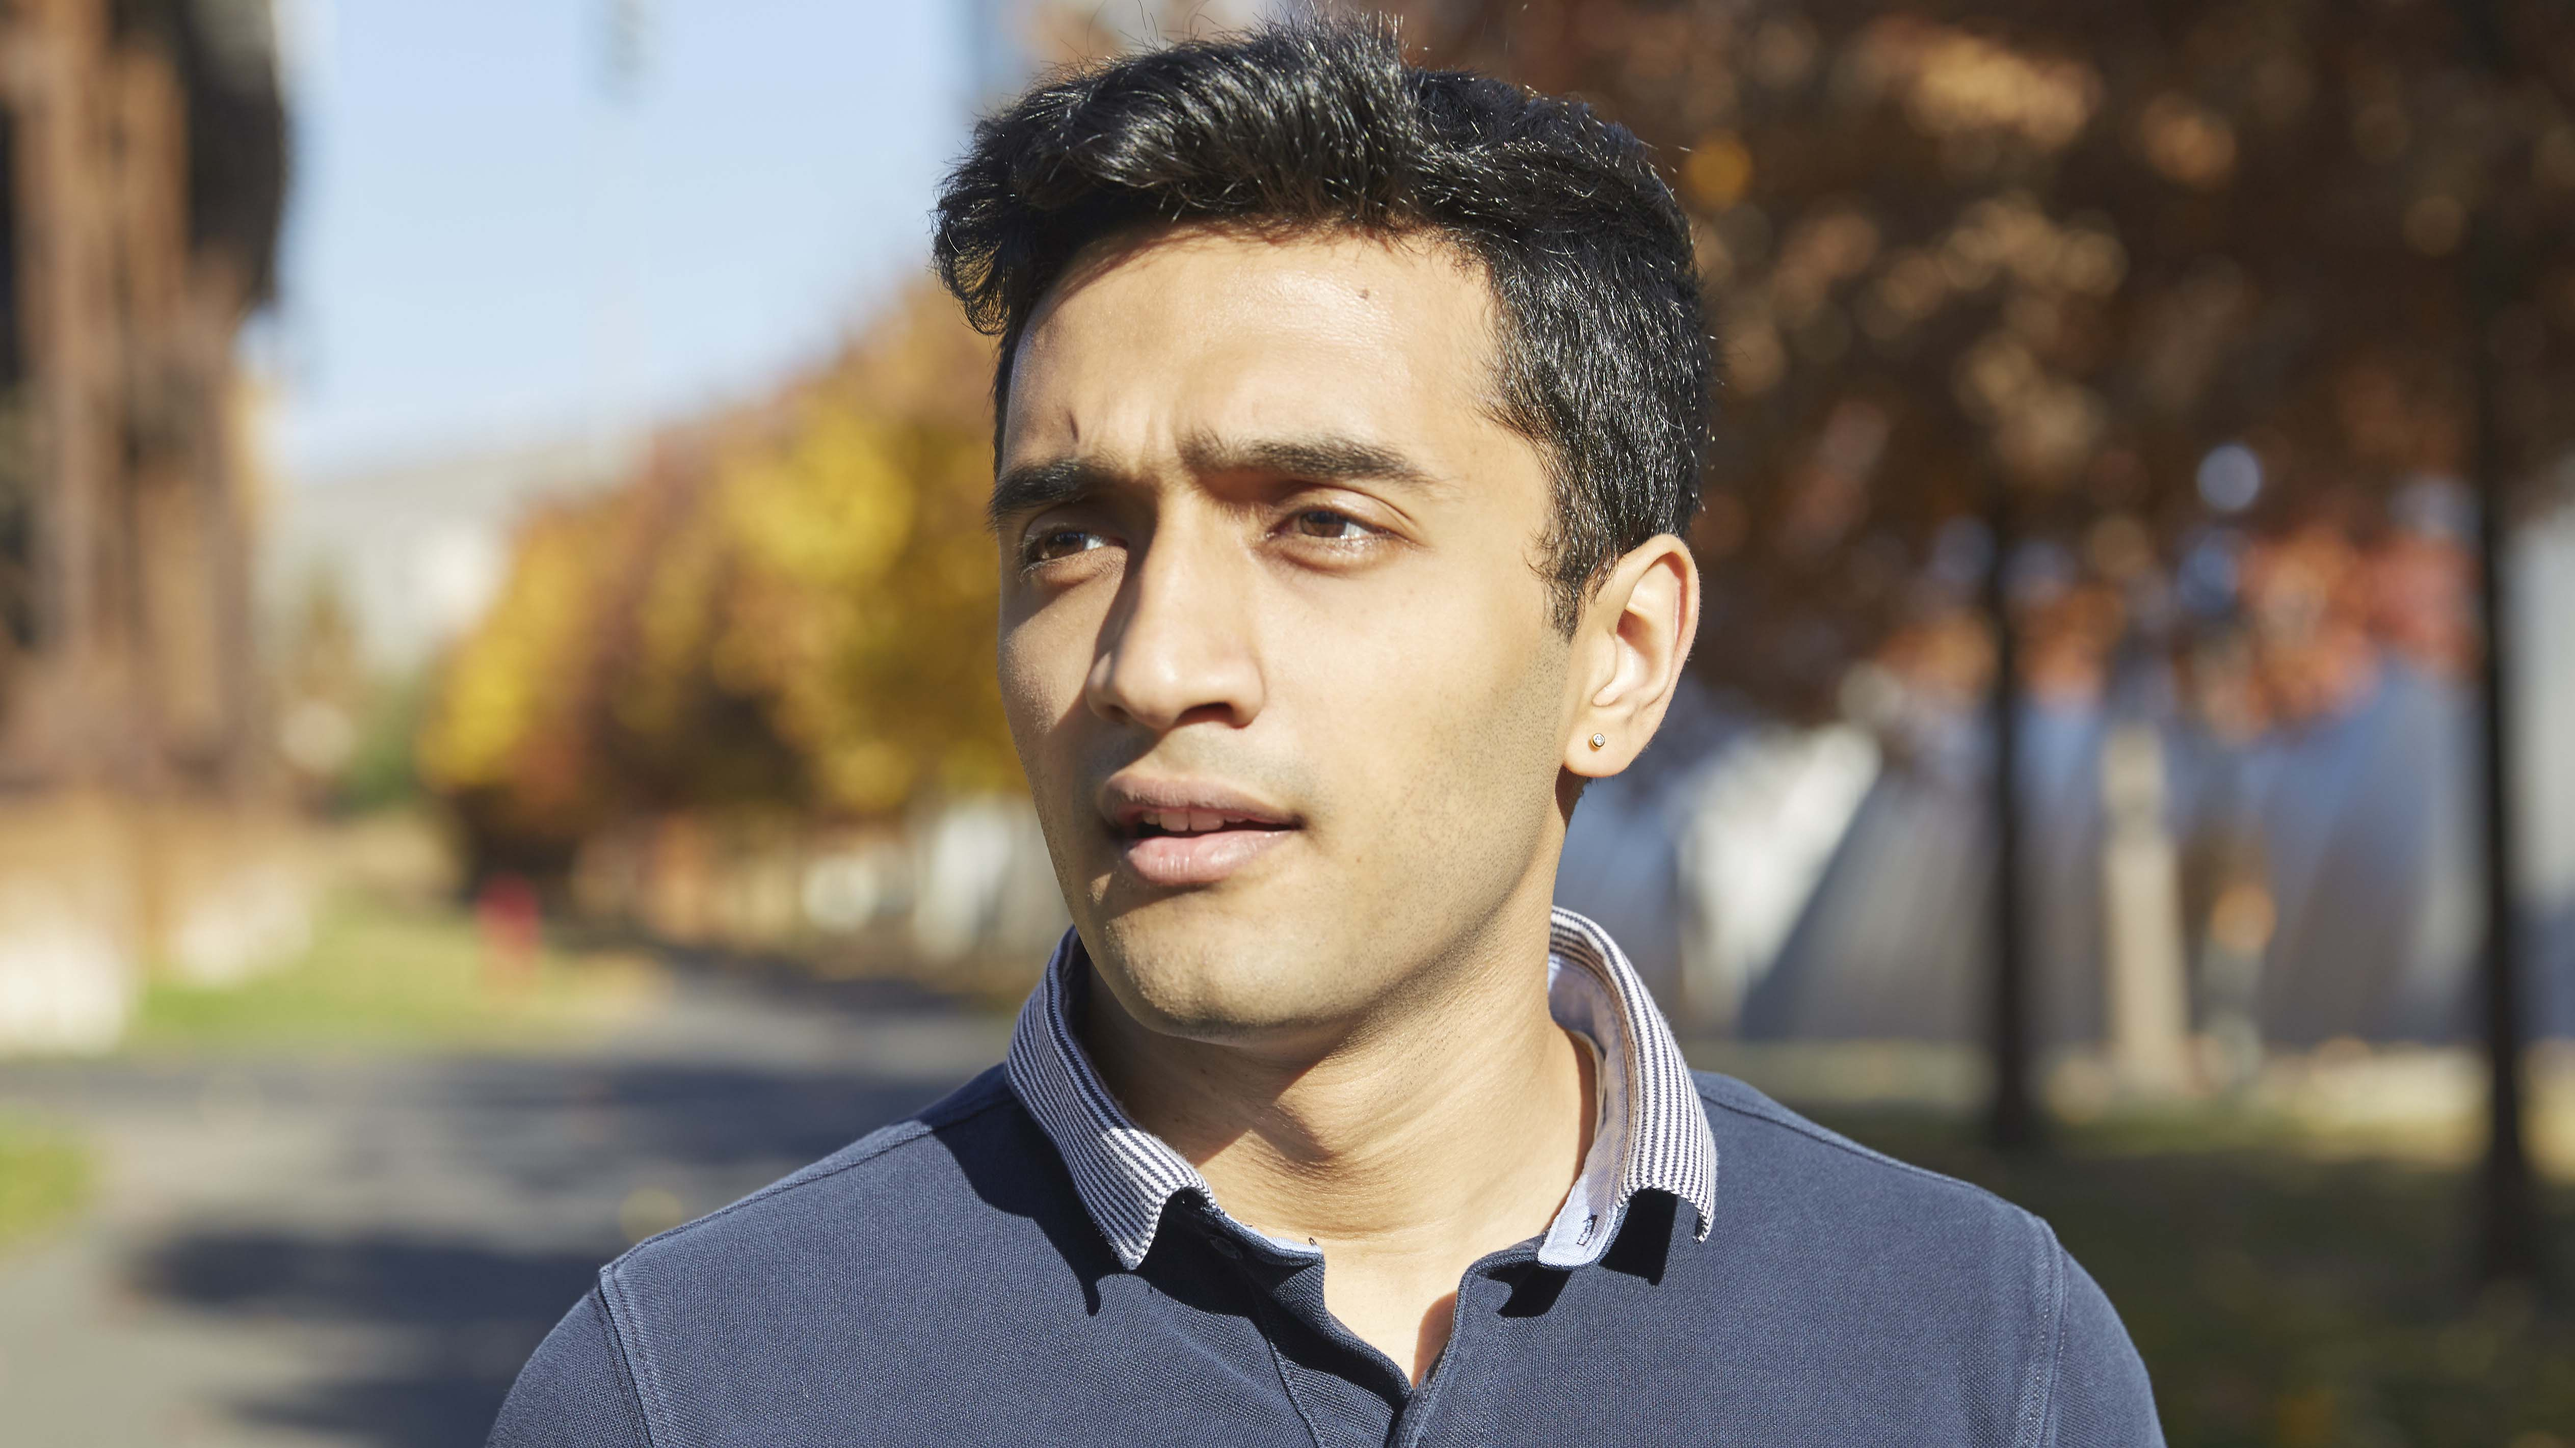
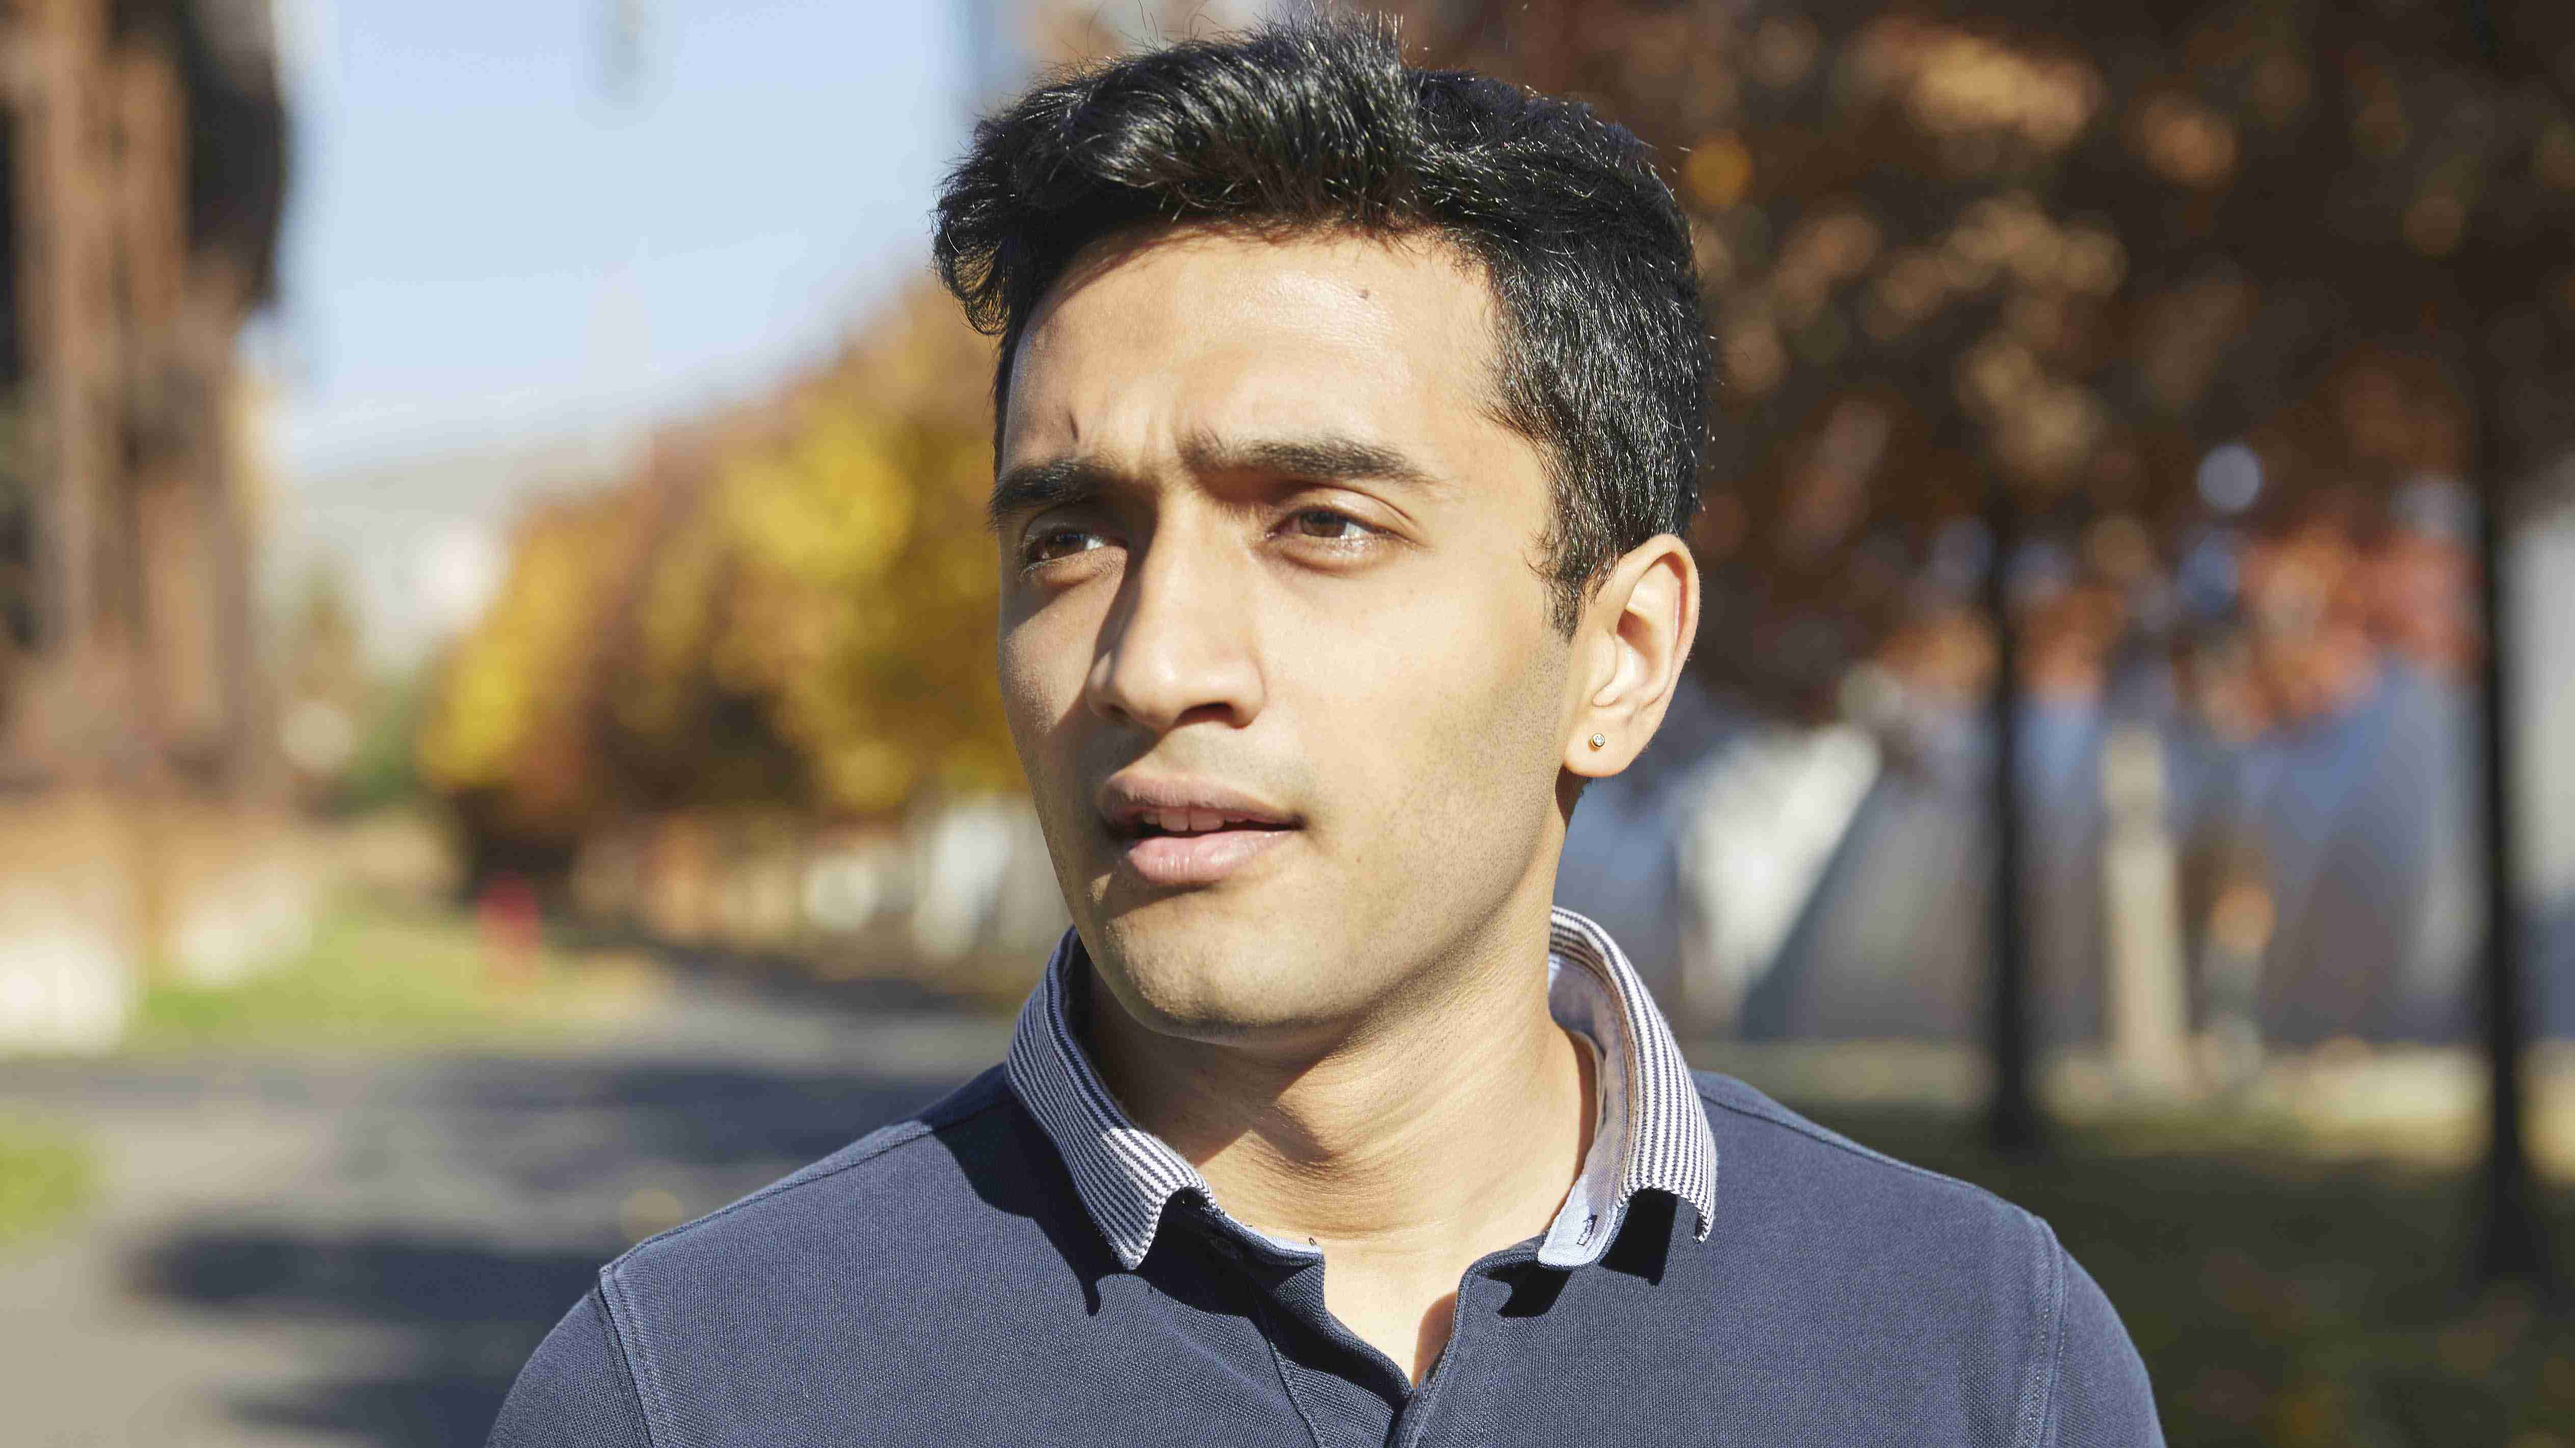
Add nav active style, compress images

Changed region(s): [[0.3107, 0.898, 0.5282, 1.0], [0.5593, 0.898, 0.6836, 1.0], [0.5903, 0.1858, 0.6525, 0.3406]]

diff --git a/contact.html b/contact.html
@@ -44,5 +44,11 @@
     <script src="https://ajax.googleapis.com/ajax/libs/jquery/1.12.4/jquery.min.js"></script>
     <script>window.jQuery || document.write('<script src="../../assets/js/vendor/jquery.min.js"><\/script>')</script>
     <script src="js/bootstrap.min.js"></script>
+    <script type="text/javascript">
+      $(function() {
+        $('a[href^="' + location.pathname.split("/")[location.pathname.split("/").length - 1] + '"]').addClass('active');
+      });
+
+    </script>
   </body>
 </html>

diff --git a/index.html b/index.html
@@ -39,5 +39,10 @@
     <script src="https://ajax.googleapis.com/ajax/libs/jquery/1.12.4/jquery.min.js"></script>
     <script>window.jQuery || document.write('<script src="../../assets/js/vendor/jquery.min.js"><\/script>')</script>
     <script src="js/bootstrap.min.js"></script>
+    <script type="text/javascript">
+      $(function() {
+        $('a[href^="' + location.pathname.split("/")[location.pathname.split("/").length - 1] + '"]').addClass('active');
+      });
+    </script>
   </body>
 </html>

diff --git a/videography.html b/videography.html
@@ -133,6 +133,10 @@
       $('#imgModal').on('hidden.bs.modal', function () {
         $('#imgModal #ytplayer').attr("src", $("#imgModal #ytplayer").attr("src",""));
       });
+
+      $(function() {
+        $('a[href^="' + location.pathname.split("/")[location.pathname.split("/").length - 1] + '"]').addClass('active');
+      });
     </script>
   </body>
 </html>

diff --git a/photography.html b/photography.html
@@ -89,6 +89,10 @@
       function setModalImg(imgPath) {
         $("#modal-image").attr("src","images/" + imgPath + ".jpg");
       }
+
+      $(function() {
+        $('a[href^="' + location.pathname.split("/")[location.pathname.split("/").length - 1] + '"]').addClass('active');
+      });
     </script>
   </body>
 </html>

diff --git a/css/styles.css b/css/styles.css
@@ -7,7 +7,7 @@ body {
 }
 
 .title p {
-    font-family: 'Quark';
+    font-family: 'Whitney';
     font-size: 2em;
     font-weight: 100;
     letter-spacing: 3px;
@@ -34,6 +34,10 @@ a {
     font-family: 'Whitney';
     font-weight: 400;
     letter-spacing: 1px;
+}
+
+a.active {
+    color: #6c6c6c;
 }
 
 a:link {
